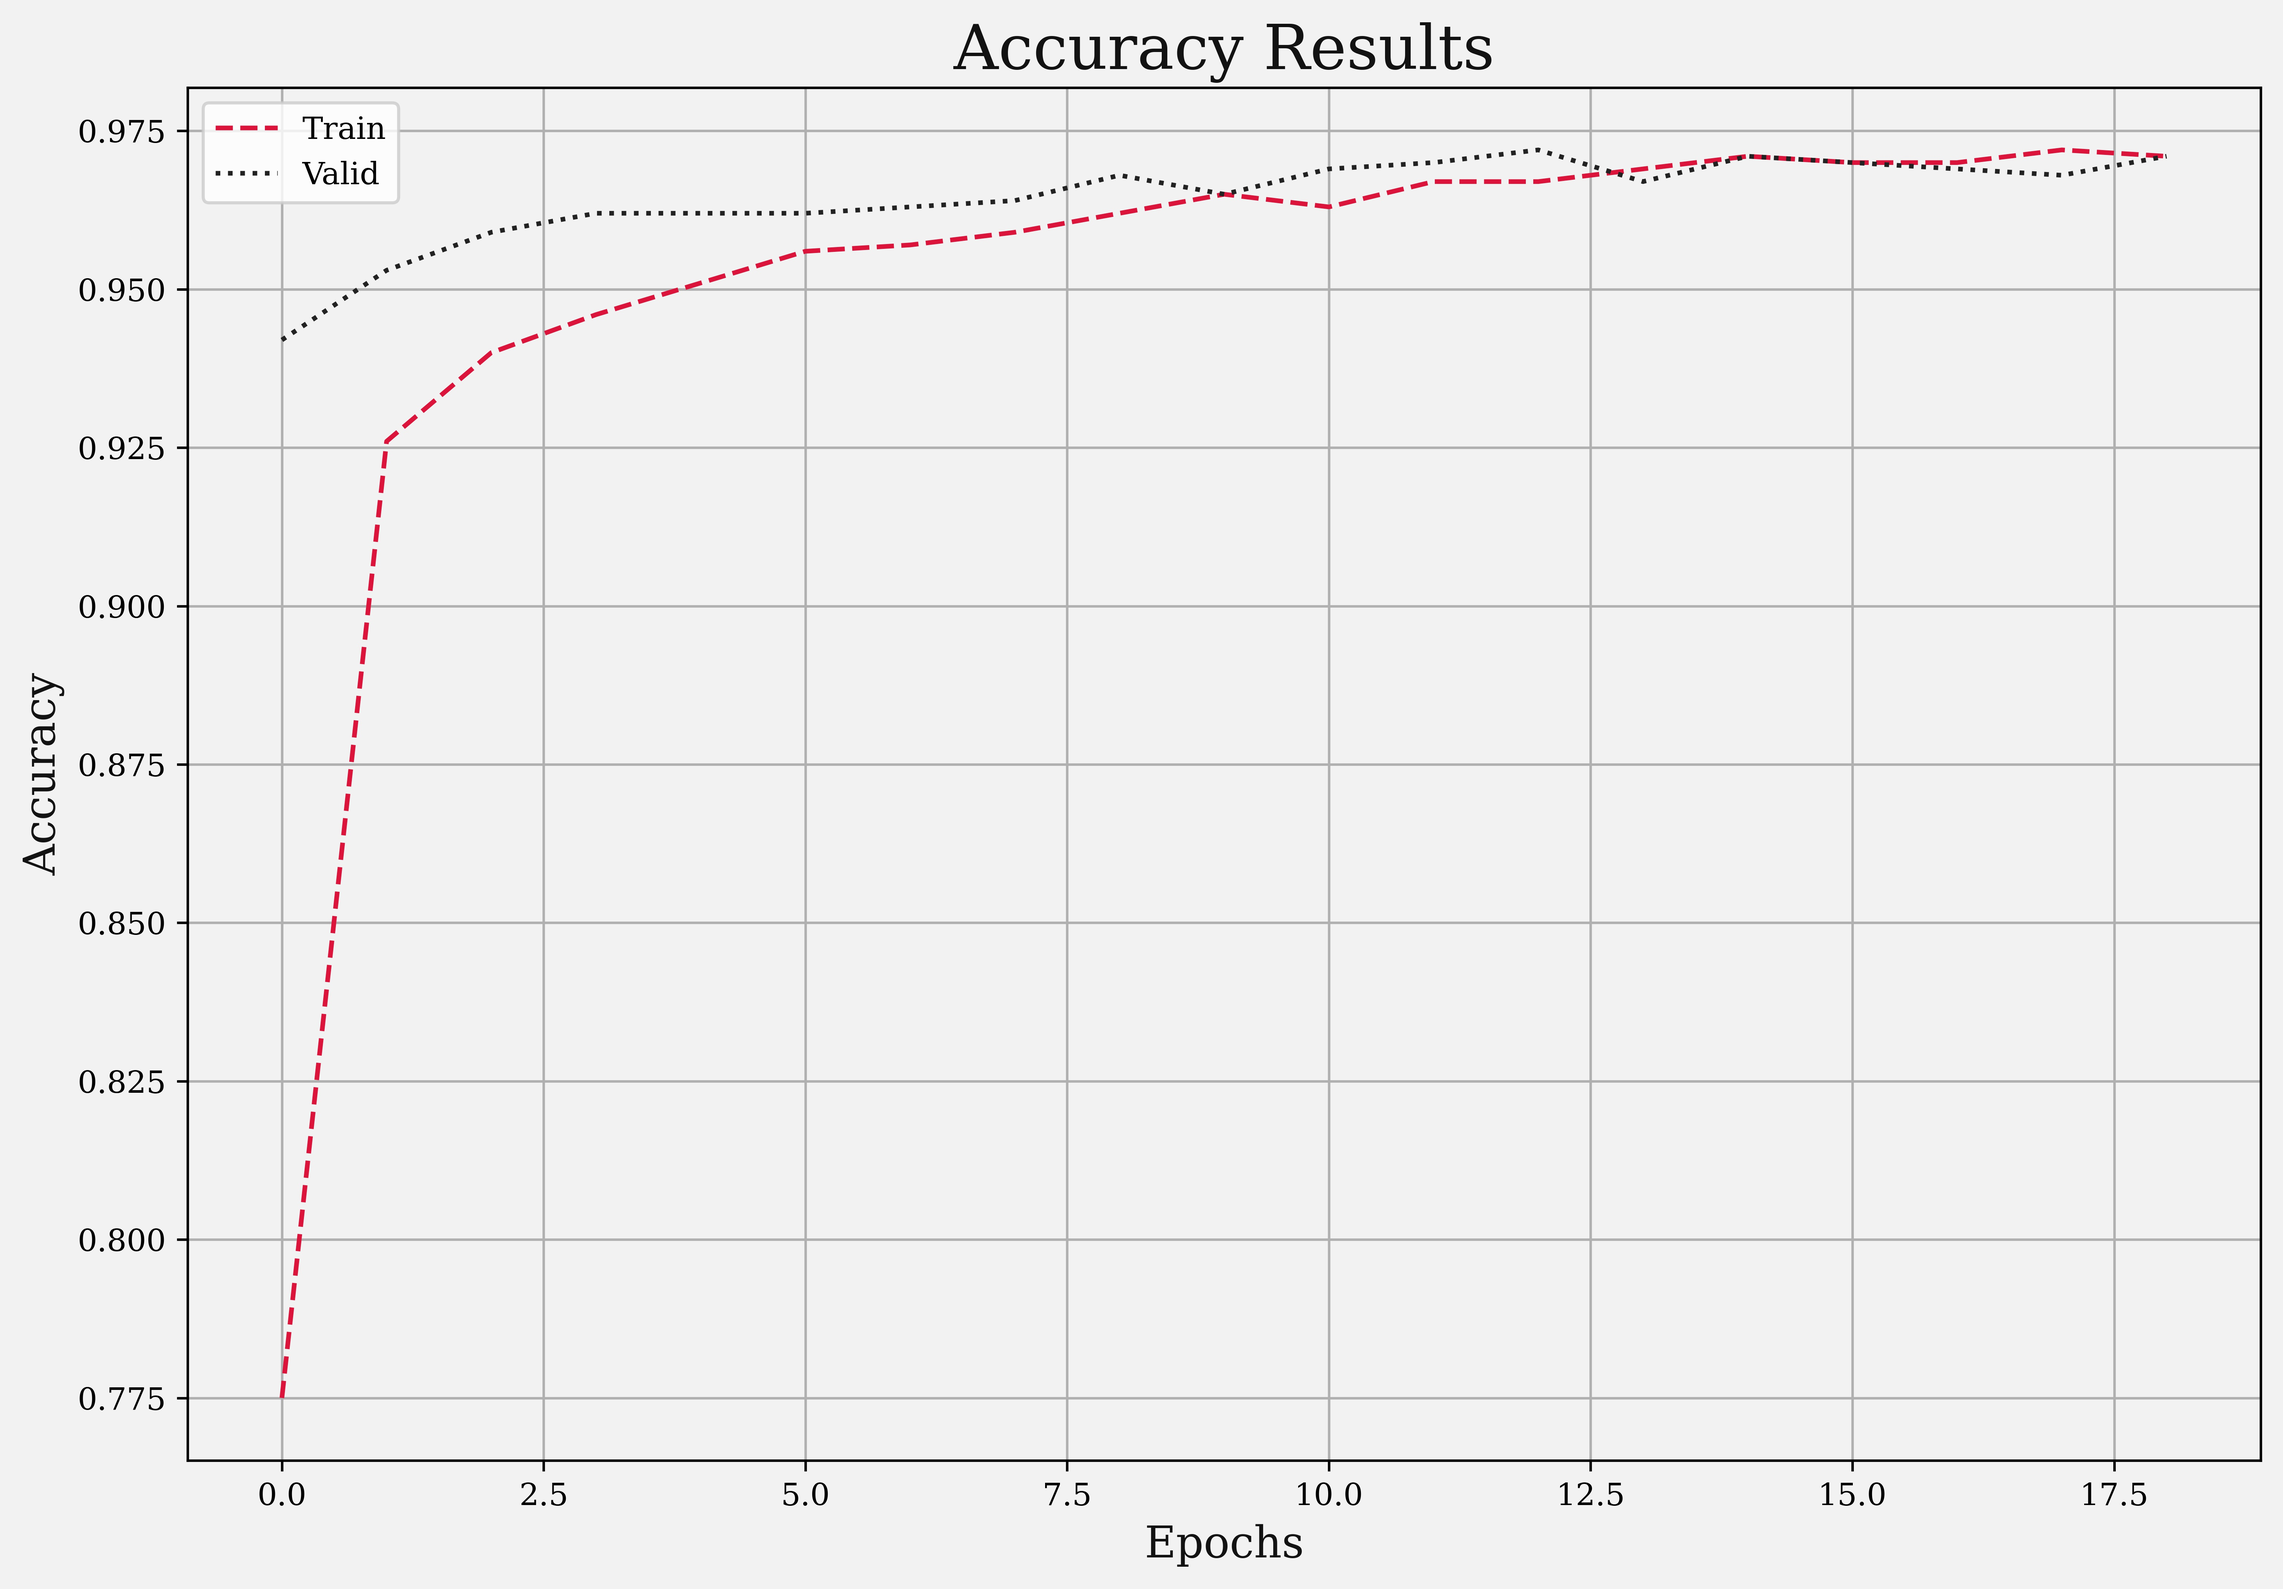
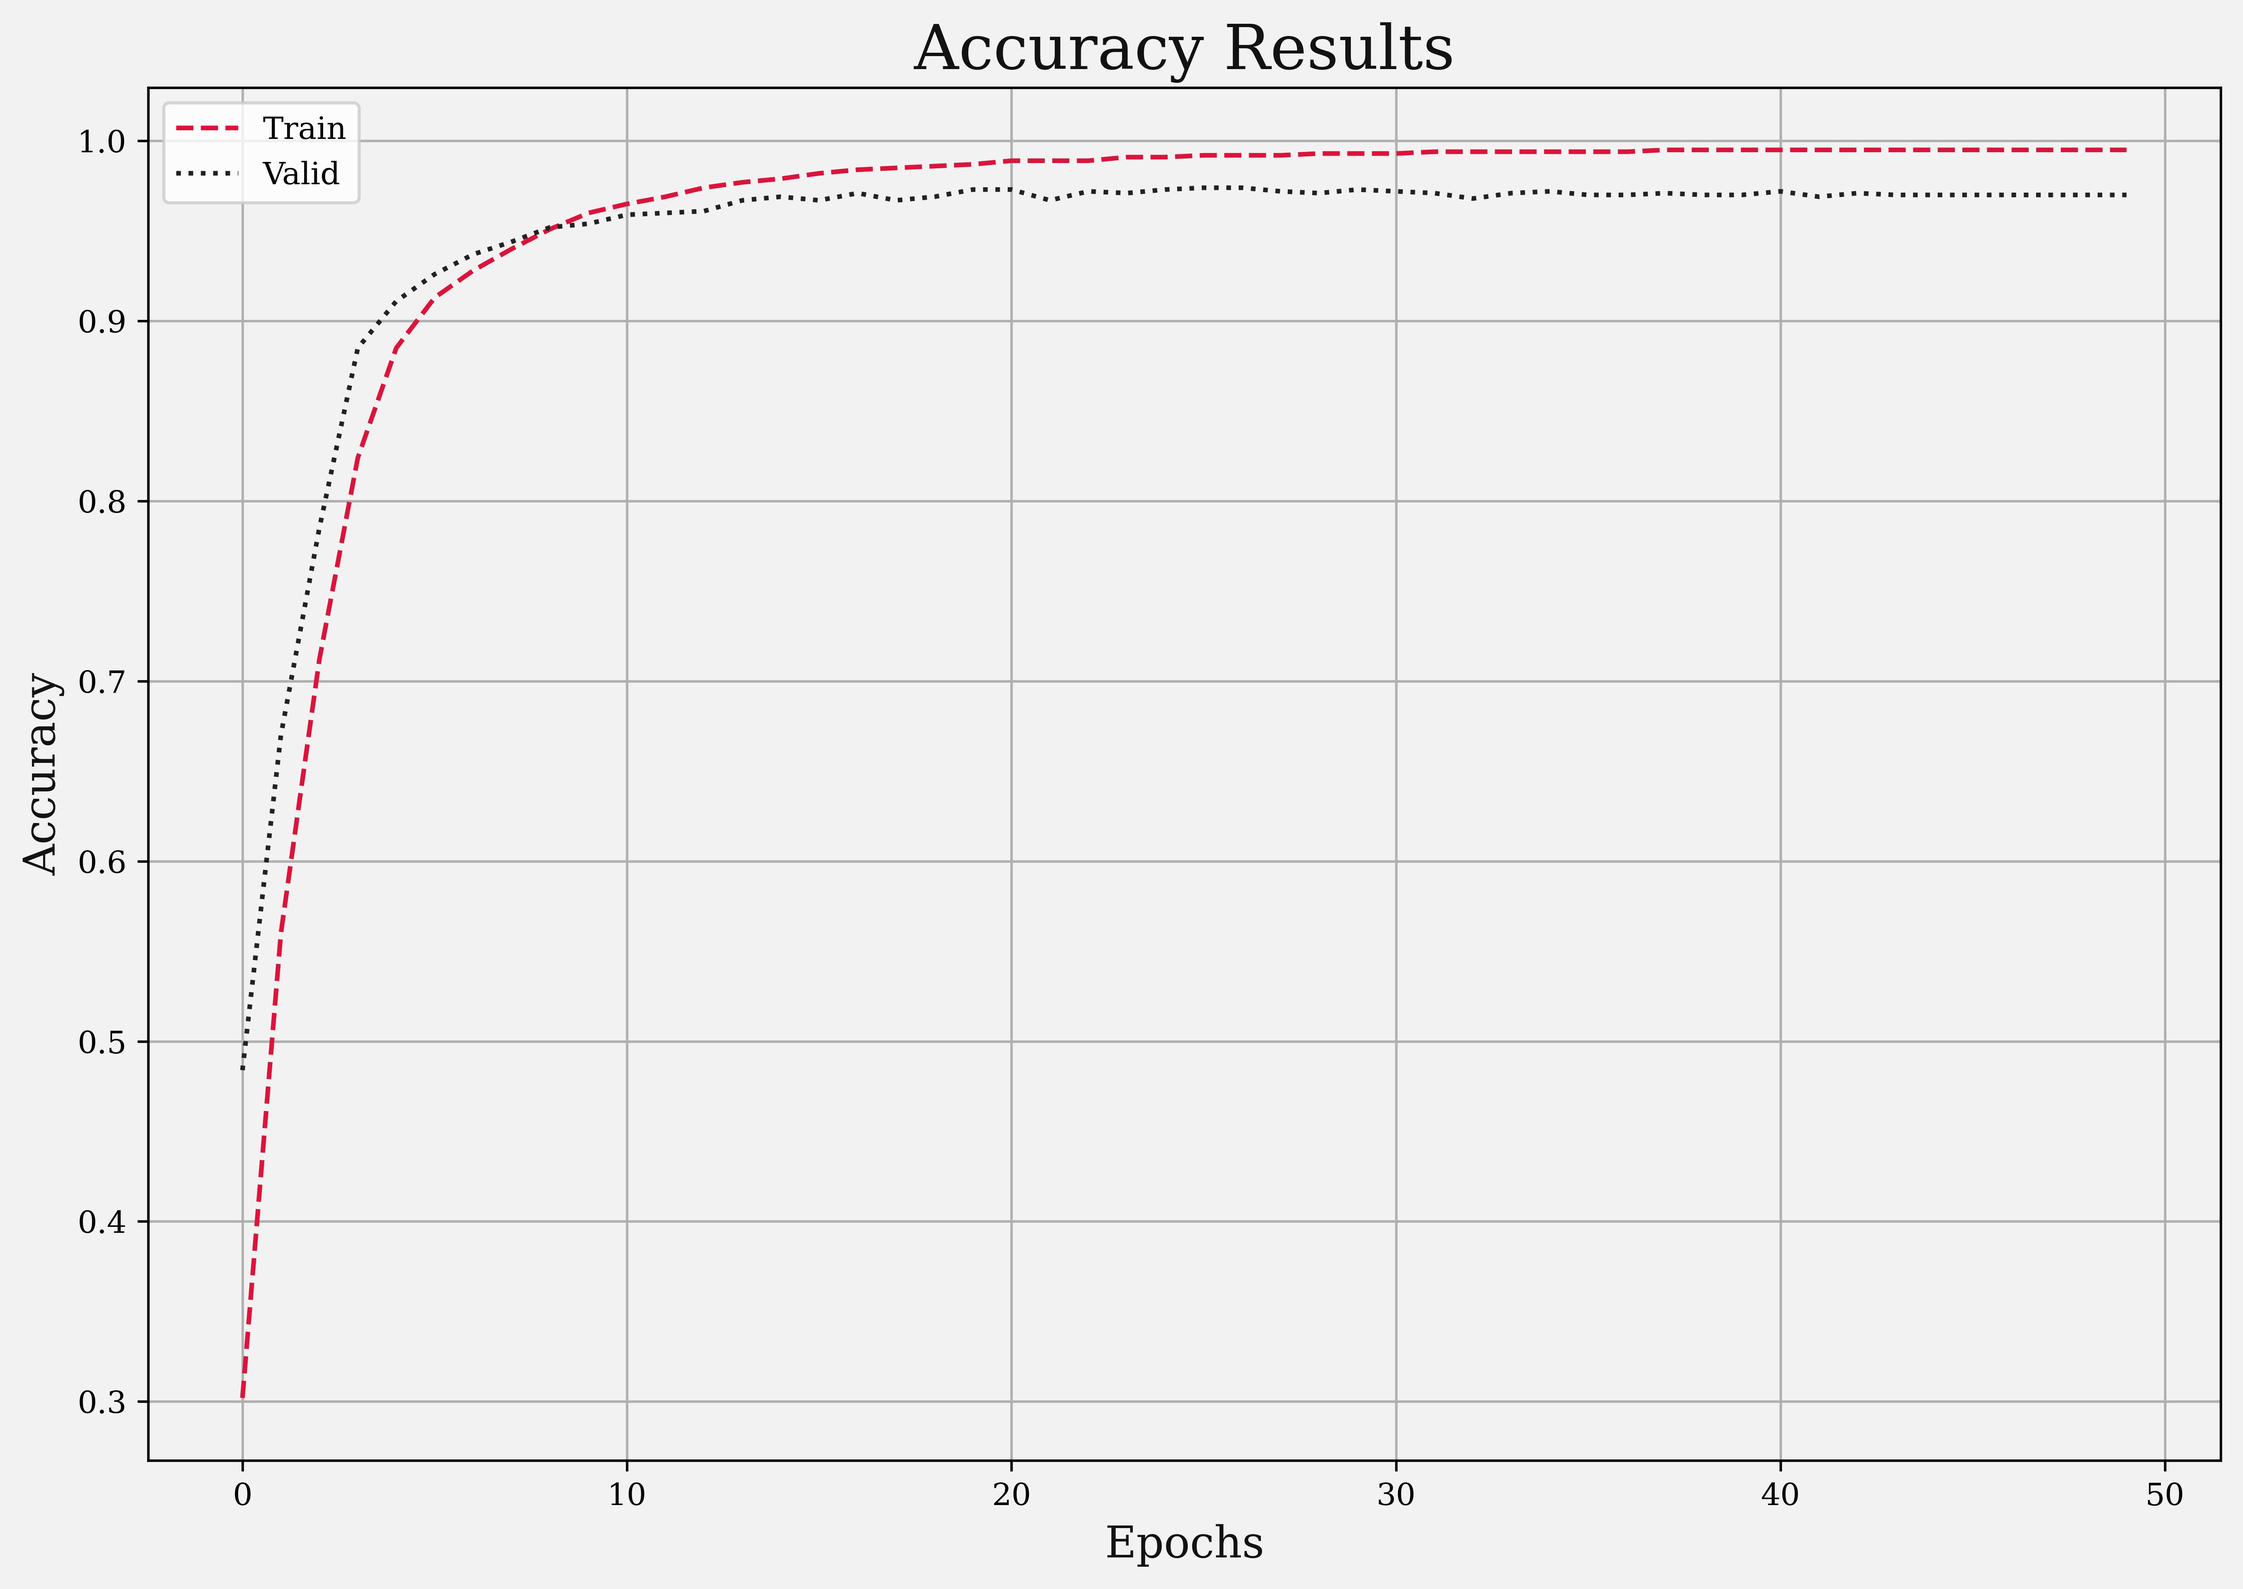
ann with 97 percent accuracy

diff --git a/02_Digit_Recognizer/src/utils_func.py b/02_Digit_Recognizer/src/utils_func.py
@@ -4,171 +4,8 @@ __author__: Anmol_Durgapal(@slothfulwave612)
 Python module containing utility functions.
 """
 # required packages/modules
-import numpy as np
 import matplotlib.pyplot as plt
 from matplotlib import rcParams
-from matplotlib import colors
-from tqdm import tqdm
-
-from sklearn import metrics
-
-import torch
-import torch.nn as nn
-
-
-def mean_values(df, label):
-    """
-    Function to yield mean values for
-    each pixel for each digit present
-    in the dataset.
-
-    Args:
-        df (pandas.DataFrame): required dataframe.
-        label (str): label column name.
-
-    Returns:
-        torch.tensor: mean value for each pixel.
-    """
-    # all unique labels
-    labels = sorted(df[label].unique())
-
-    # empty array for storing mean values
-    mean_list = []
-
-    for digit in labels:
-        # calculate mean value for each pixel for every image
-        mean_value = torch.tensor(
-            df.loc[
-                df[label] == digit
-            ].drop(label, axis=1).values
-        ).mean(0)
-
-        mean_list.append(mean_value)
-
-    # convert list to tensor
-    mean_tensor = torch.stack(mean_list)
-
-    return mean_tensor
-
-
-def plot_mean_images(mean_tensor):
-    """
-    Function to produce images using values
-    from mean_tensor.
-
-    Args:
-        mean_tensor (torch.tensor): mean value for each pixel.
-
-    Returns:
-        figure.Figure: figure object.
-        axes.Axes: axes object.
-    """
-    # create a subplot
-    fig, axes = plt.subplots(
-        nrows=2, ncols=5, facecolor="#121212", figsize=(16, 8)
-    )
-
-    # color map
-    cmap = [
-        "#121212", "#F2F2F2"
-    ]
-    cmap = colors.ListedColormap(cmap)
-
-    # traverse axes and plot mean_tensor image for every digit
-    for index, ax in enumerate(fig.get_axes()):
-
-        # set facecolor
-        # ax.set_facecolor("#121212")
-
-        # plot the image
-        ax.imshow(
-            mean_tensor[index].reshape(28, 28), cmap="Greys"
-        )
-
-        # tidy axis
-        ax.axis("off")
-
-    # add figure title
-    fig.suptitle(
-        "Baseline model images on train data", fontsize=20, color="#F2F2F2"
-    )
-
-    fig.savefig("plots/baseline_img_train.jpg", dpi=500, bbox_inches="tight")
-
-    return fig, axes
-
-
-def calculate_mae(pred, true):
-    """
-    Function to calculate MAE value.
-
-    Args:
-        pred (torch.tensor): predicted values.
-        true (torch.tensor): true values.
-
-    Returns:
-        float: MAE score.
-    """
-    # initialise object of L1Loss
-    mae_loss = nn.L1Loss()
-
-    # set requires_grad to True
-    pred.requires_grad_(True)
-
-    # calculate the loss
-    output = mae_loss(pred, true)
-
-    return round(output.item(), 3)
-
-
-def calculate_accuracy_baseline(df, mean_tensor, label):
-    """
-    Function to predict label using mean_tensor value.
-
-    Args:
-        df (pd.DataFrame): required dataframe.
-        mean_tensor (torch.tensor): mean value for each pixel.
-        label (str): label column name.
-
-    Returns:
-        float: accuracy on the data set passed.
-    """
-    # data required
-    data = torch.from_numpy(
-        df.drop(label, axis=1).values
-    )
-
-    # true labels
-    labels = df[label].values
-
-    # empty list for storing predicted labels
-    pred_labels = []
-
-    # traverse the data
-    for image in tqdm(data, total=len(data)):
-
-        # empty list which will contain MAE values
-        mae_scores = []
-
-        # traverse the mean value
-        for means in mean_tensor:
-
-            # calculate MAE value
-            output = calculate_mae(means, image)
-
-            # append to list
-            mae_scores.append(output)
-
-        # append predicted label
-        pred_labels.append(
-            np.array(mae_scores).argmin()
-        )
-
-    return round(
-        metrics.accuracy_score(
-            pred_labels, labels
-        ), 3
-    )
 
 
 def plot_over_epochs(

diff --git a/02_Digit_Recognizer/src/train.py b/02_Digit_Recognizer/src/train.py
@@ -15,7 +15,7 @@ from . import utils_class, utils_func
 # defualt values
 DEVICE = "cuda"
 EPOCHS = 50
-BATCH_SIZE = 275
+BATCH_SIZE = 350
 
 
 def run_training(target, save_model=False):
@@ -31,6 +31,8 @@ def run_training(target, save_model=False):
     train_df = pd.read_pickle("data/train.pkl")
     valid_df = pd.read_pickle("data/valid.pkl")
     test_df = pd.read_pickle("data/test.pkl")
+
+    print(train_df.shape, valid_df.shape, test_df.shape)
 
     # split for training data
     X_train = train_df.drop(target, axis=1).to_numpy()
@@ -61,7 +63,7 @@ def run_training(target, save_model=False):
 
     # create data loaders for train data set
     train_loader = torch.utils.data.DataLoader(
-        train_dataset, batch_size=BATCH_SIZE
+        train_dataset, batch_size=BATCH_SIZE, shuffle=True
     )
 
     # create data loaders for valid data set
@@ -79,24 +81,31 @@ def run_training(target, save_model=False):
         num_features=X_train.shape[1],
         num_targets=10,
         num_layers=5,
-        hidden_size=128,
-        dropout=0.15
+        hidden_size=100,
+        dropout=0
     )
 
     # transfer to GPU
     model = model.to(DEVICE)
 
     # make an optimizer
-    optimizer = torch.optim.Adam(model.parameters(), lr=0.001)
+    optimizer = torch.optim.Adamax(model.parameters(), lr=1e-8)
+
+    # learning rate scheduler
+    lr_scheduler = torch.optim.lr_scheduler.OneCycleLR(
+        optimizer, max_lr=0.001, total_steps=50
+    )
 
     # init object of Engine class
-    engine = utils_class.Engine_ann(model, optimizer, DEVICE)
+    engine = utils_class.Engine_ann(
+        model, optimizer, lr_scheduler, DEVICE
+    )
 
     # init a best loss
     best_loss = np.inf
 
     # init early stopping iter and counter
-    early_stopping_iter, early_stopping_counter = 10, 0
+    early_stopping_iter, early_stopping_counter = 15, 0
 
     # init empty list for loss and accuracy
     loss_list_train, acc_list_train = [], []
@@ -123,13 +132,13 @@ def run_training(target, save_model=False):
             best_loss = valid_loss
 
             if save_model:
-                torch.save(model.state_dict(), f"model_{epoch}.pt")
+                torch.save(model, f"models/model_ann.pt")
 
         else:
             early_stopping_counter += 1
 
-        if early_stopping_counter == early_stopping_iter:
-            break
+        # if early_stopping_counter == early_stopping_iter:
+        #     break
 
     # test loss and accuracy
     test_loss, test_acc = engine.evaluate(test_loader)
@@ -147,7 +156,9 @@ def run_training(target, save_model=False):
         "plots/ann_loss.jpg"
     )
 
+    torch.save(model, f"models/model_ann.pt")
+
 
 if __name__ == "__main__":
     torch.manual_seed(42)
-    run_training("label")
+    run_training("label", True)

diff --git a/02_Digit_Recognizer/src/utils_class.py b/02_Digit_Recognizer/src/utils_class.py
@@ -46,17 +46,19 @@ class Engine_ann:
     class to train and evaluate our ANN model.
     """
 
-    def __init__(self, model, optimizer, device):
+    def __init__(self, model, optimizer, lr_scheduler, device):
         """
         Function to init the object of the class.
 
         Args:
             model: PyTorch model.
             optimizer: optimizer function.
+            lr_scheduler: learning rate scheduler.
             device: cpu or gpu
         """
         self.model = model
         self.optimizer = optimizer
+        self.lr_scheduler = lr_scheduler
         self.device = device
 
     @staticmethod
@@ -135,6 +137,8 @@ class Engine_ann:
             final_loss += loss.item()
             final_acc += acc.item()
 
+        self.lr_scheduler.step()
+
         return round(final_loss / len(data_loader), 3), \
             round(final_acc / len(data_loader), 3)
 
@@ -205,9 +209,10 @@ class Model(nn.Module):
                 in_features=num_features, out_features=hidden_size
             )
         )
+        torch.nn.init.kaiming_uniform_(layers[-1].weight)
         layers.append(nn.BatchNorm1d(hidden_size))
         layers.append(nn.Dropout(dropout))
-        layers.append(nn.ReLU())
+        layers.append(nn.ELU())
 
         # append hidden layers
         for _ in range(num_layers):
@@ -216,9 +221,10 @@ class Model(nn.Module):
                     in_features=hidden_size, out_features=hidden_size
                 )
             )
+            torch.nn.init.kaiming_uniform_(layers[-1].weight)
             layers.append(nn.BatchNorm1d(hidden_size))
             layers.append(nn.Dropout(dropout))
-            layers.append(nn.ReLU())
+            layers.append(nn.ELU())
 
         # append output layer
         layers.append(
@@ -226,6 +232,7 @@ class Model(nn.Module):
                 in_features=hidden_size, out_features=num_targets
             )
         )
+        torch.nn.init.kaiming_uniform_(layers[-1].weight)
         layers.append(
             nn.Softmax(dim=1)
         )

diff --git a/02_Digit_Recognizer/src/dataset.py b/02_Digit_Recognizer/src/dataset.py
@@ -6,21 +6,26 @@ Python module for operating with dataset.
 
 import pandas as pd
 
+# default value
+RANDOM_SEED = 42
+
 if __name__ == "__main__":
     # load the datasets
     train_data = pd.read_csv("input/train.csv")
 
     # shuffle the train dataset
-    train_data = train_data.sample(frac=1).reset_index(drop=True)
+    train_data = train_data.sample(
+        frac=1, random_state=RANDOM_SEED
+    ).reset_index(drop=True)
 
     # normalize the data
     temp_data = train_data.loc[:, train_data.columns != "label"] / 255.0
     temp_data["label"] = train_data["label"]
 
     # create train, validation and test data set
-    train, valid, test = temp_data.loc[0:38000].copy().reset_index(drop=True),\
-        temp_data.loc[38001:40000].copy().reset_index(drop=True),\
-        temp_data.loc[40000:].copy().reset_index(drop=True)
+    train, valid, test = temp_data.loc[0:39000].copy().reset_index(drop=True),\
+        temp_data.loc[39001:40000].copy().reset_index(drop=True),\
+        temp_data.loc[40001:].copy().reset_index(drop=True)
 
     # shape of datasets
     print(f"Shape of train data: {train.shape}")

diff --git a/02_Digit_Recognizer/src/test.py b/02_Digit_Recognizer/src/test.py
@@ -1,0 +1,39 @@
+import pandas as pd 
+import torch
+
+if __name__ == "__main__":
+    test_df = pd.read_csv("input/test.csv")
+
+    # normalize the data
+    test_data = test_df / 255.0
+
+    # split for test data
+    test_images_tensor = torch.from_numpy(test_data.to_numpy()).float()
+
+    # dataloader
+    test_loader = torch.utils.data.DataLoader(
+        test_images_tensor, batch_size=300, num_workers=2, shuffle=False
+    )
+
+    # load model
+    model = torch.load("models/model_ann.pt")
+
+    model.eval()
+
+    test_preds = torch.LongTensor()
+
+    for i, data in enumerate(test_loader):
+        
+        data = data.to("cuda")
+        
+        output = model(data)
+
+        preds = output.to("cpu").argmax(axis=1)
+
+        test_preds = torch.cat((test_preds, preds), dim=0)
+    
+    sample = pd.read_csv("input/sample_submission.csv")
+
+    sample["Label"] = test_preds.numpy()
+
+    sample.to_csv("data/final.csv", index=False)
